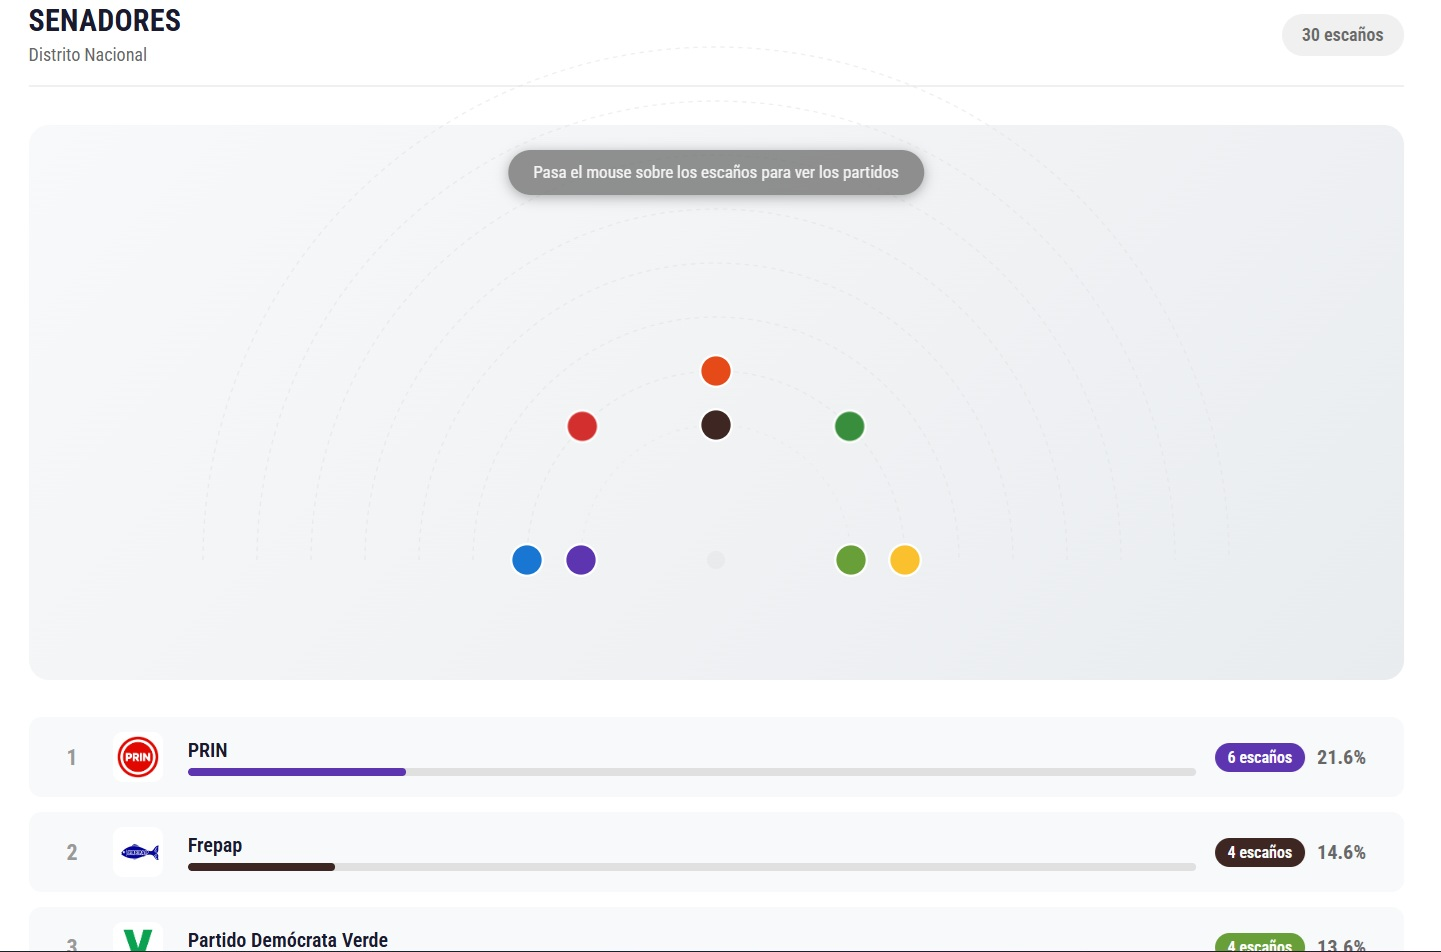
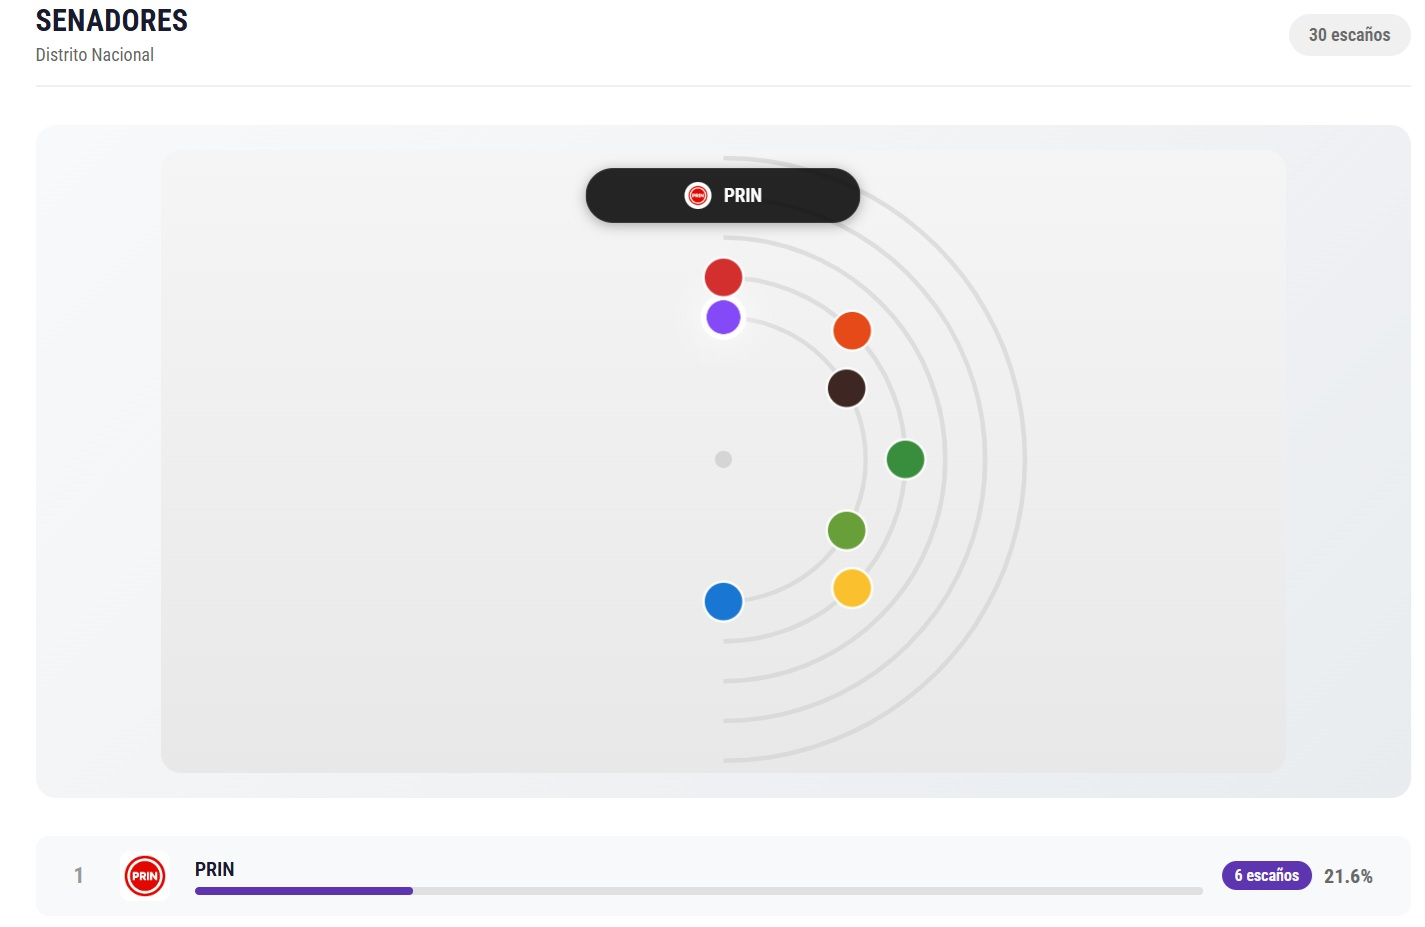
Fix: Generate proper individual seat distribution for hemicycle visualization
Problem: Only 8 parties were being processed and passed to hemicycle,
so only ~8 dots appeared instead of 30/130 individual seats.

Solution:
1. Process ALL legislative parties (removed .slice(0, 8))
2. Added seatDistribution array that creates individual seat objects
3. Each seat object contains partyColor, partyName, partySymbolUrl
4. Updated ParliamentHemicycle to receive actual seat array instead of party results
5. Now correctly displays 30 individual colored dots for Senadores
6. Will correctly display 130 individual colored dots for Diputados

Each dot in the hemicycle now represents ONE physical seat in the chamber.

diff --git a/src/routes/resultados/+page.svelte b/src/routes/resultados/+page.svelte
@@ -11,6 +11,12 @@
   const legislativeRows = BALLOT_COLUMNS[1].rows.filter(r => r.partyName);
   
   // Types
+  interface Seat {
+    partyColor: string;
+    partyName: string;
+    partySymbolUrl: string;
+  }
+  
   interface ElectionResult {
     partyId: string;
     partyName: string;
@@ -28,6 +34,7 @@
     totalVotes: number;
     totalSeats: number;
     results: ElectionResult[];
+    seatDistribution: Seat[]; // Individual seats for hemicycle
     userVote?: string;
   }
   
@@ -82,7 +89,7 @@
           percentage: 0
         }));
       } else {
-        parties = legislativeRows.slice(0, 8).map(row => ({
+        parties = legislativeRows.map(row => ({
           partyId: row.partyAbbr,
           partyName: row.partyName,
           partyColor: row.partyColor,
@@ -126,12 +133,29 @@
       // Sort by percentage
       parties.sort((a, b) => b.percentage - a.percentage);
       
+      // Generate seat distribution - create individual seat objects
+      let seatDistribution: Seat[] = [];
+      if (cat.totalSeats > 1) {
+        // Create individual seats based on party results
+        parties.forEach(party => {
+          const partySeats = party.seats || 0;
+          for (let i = 0; i < partySeats; i++) {
+            seatDistribution.push({
+              partyColor: party.partyColor,
+              partyName: party.partyName,
+              partySymbolUrl: party.partySymbolUrl
+            });
+          }
+        });
+      }
+      
       return {
         category: cat.name,
         categoryId: cat.id,
         totalVotes: parties.reduce((sum, r) => sum + r.votes, 0),
         totalSeats: cat.totalSeats,
         results: parties,
+        seatDistribution,
         userVote: userPartyName || undefined
       };
     });
@@ -319,7 +343,7 @@
       <!-- Hemicycle Visualization -->
       <div class="hemicycle-wrapper">
         <ParliamentHemicycle 
-          seats={category.results}
+          seats={category.seatDistribution}
           totalSeats={category.totalSeats}
         />
       </div>
